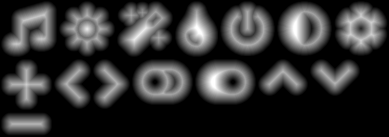
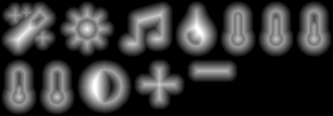
replace color sliders with temperature

diff --git a/main.cpp b/main.cpp
@@ -28,9 +28,7 @@ namespace appui {
         std::atomic<double> brightnessV;
         std::atomic<double> brightnessA;
         std::atomic<double> gamma;
-        std::atomic<double> dr;
-        std::atomic<double> dg;
-        std::atomic<double> db;
+        std::atomic<double> temperature;
         uint32_t color;
     };
 
@@ -221,7 +219,7 @@ namespace appui {
         bool enabled = true;
     };
 
-    enum setting { Y, R, G, B, Lv, La };
+    enum setting { Y, T, Lv, La };
 
     struct tooltip_config : ui::grid {
         tooltip_config(const state& init)
@@ -253,18 +251,12 @@ namespace appui {
             baSlider.onChange.addForever([this](double v) { return onChange(La, v); });
 
             gammaGrid.set({&yLabel.pad, &ySlider.pad,
-                           &rLabel.pad, &rSlider.pad,
-                           &gLabel.pad, &gSlider.pad,
-                           &bLabel.pad, &bSlider.pad});
+                           &tLabel.pad, &tSlider.pad});
             gammaGrid.setColStretch(1, 1);
-            ySlider.setValue((init.gamma - 1) / 2); // use gamma from 1 to 3
-            rSlider.setValue(init.dr);
-            gSlider.setValue(init.dg);
-            bSlider.setValue(init.db);
+            ySlider.setValue((init.gamma - 1) / 2); // gamma <- [1..3]
+            tSlider.setValue(pow((init.temperature - 1000) / 19000, 0.5673756656029532)); // temperature <- [1000..20000]
             ySlider.onChange.addForever([&](double value) { return onChange(Y, value * 2 + 1); });
-            rSlider.onChange.addForever([&](double value) { return onChange(R, value); });
-            gSlider.onChange.addForever([&](double value) { return onChange(G, value); });
-            bSlider.onChange.addForever([&](double value) { return onChange(B, value); });
+            tSlider.onChange.addForever([&](double value) { return onChange(T, pow(value, 1.7625006862733437) * 19000 + 1000); });
 
             colorGrid.set({&hueSlider.pad, &satSlider.pad});
             colorGrid.setColStretch(0, 1);
@@ -300,15 +292,11 @@ namespace appui {
         padded<texslider<2>> bvSlider{{10, 10, 10, 10}};
         padded<texslider<2>> baSlider{{10, 10, 10, 10}};
 
-        padded<ui::grid> gammaGrid{{10, 10, 10, 10}, 2, 4};
+        padded<ui::grid> gammaGrid{{10, 10, 10, 10}, 2, 2};
         padded_label yLabel{{10, 10, 10, 10}, {L"\uf042", ui::font::loadPermanently<IDI_FONT_ICONS>(), 22}};
-        padded_label rLabel{{10, 10, 10, 10}, {L"\uf185", ui::font::loadPermanently<IDI_FONT_ICONS>(), 22, 0xFFFF3333u}};
-        padded_label gLabel{{10, 10, 10, 10}, {L"\uf185", ui::font::loadPermanently<IDI_FONT_ICONS>(), 22, 0xFF33FF33u}};
-        padded_label bLabel{{10, 10, 10, 10}, {L"\uf185", ui::font::loadPermanently<IDI_FONT_ICONS>(), 22, 0xFF3333FFu}};
+        padded_label tLabel{{10, 10, 10, 10}, {L"\uf2c9", ui::font::loadPermanently<IDI_FONT_ICONS>(), 22}};
         padded<ui::slider> ySlider{{10, 10, 10, 10}};
-        padded<ui::slider> rSlider{{10, 10, 10, 10}};
-        padded<ui::slider> gSlider{{10, 10, 10, 10}};
-        padded<ui::slider> bSlider{{10, 10, 10, 10}};
+        padded<texslider<3>> tSlider{{10, 10, 10, 10}};
         gray_bg gammaTab{gammaGrid.pad};
 
         padded<ui::grid> colorGrid{{10, 10, 10, 10}, 1, 2};
@@ -320,7 +308,7 @@ namespace appui {
 
 int ui::main() {
     bool initialized = false;
-    appui::state defaultConfig = {16, 9, 20, 3, 0.7, 0.4, 2.0, 1.0, 1.0, 1.0, 0x00FFFFFFu};
+    appui::state defaultConfig = {16, 9, 20, 3, 0.7, 0.4, 2.0, 6600.0, 0x00FFFFFFu};
     appui::state config;
 
     wchar_t configPath[MAX_PATH];
@@ -480,16 +468,16 @@ int ui::main() {
                 for (uint8_t strip = 0; strip < 4; strip++) {
                     comm.update(strip, frameData[strip], [
                         brightness = strip < 2 ? config.brightnessV.load() : config.brightnessA.load(),
-                        gamma = config.gamma.load(), dr = config.dr.load(), dg = config.dg.load(), db = config.db.load()
+                        gamma = config.gamma.load(), ts = k2argb(config.temperature)
                     ](uint32_t color) {
                         auto [a, r, g, b] = u2qd(color);
                         // Naively applying round((x * brightness / 255) ^ gamma * 255) for each component
                         // can multiply relative differences due to rounding errors, e.g. 16, 17, 16 (barely
                         // greenish dark gray) at gamma 2.0 and brightness = 70% will become 0, 1, 0 (obvious
                         // dark green). To avoid this, round the differences instead.
-                        g = pow(g * brightness, gamma + dg - 1) * dg;
-                        r = pow(r * brightness, gamma + dr - 1) * dr - g;
-                        b = pow(b * brightness, gamma + db - 1) * db - g;
+                        g = pow(g * brightness * ts._3, gamma);
+                        r = pow(r * brightness * ts._2, gamma) - g;
+                        b = pow(b * brightness * ts._4, gamma) - g;
                         return LED(round(r * 255) + round(g * 255), round(g * 255), round(b * 255) + round(g * 255));
                     });
                 }
@@ -584,9 +572,7 @@ int ui::main() {
     tooltipConfig.onChange.addForever([&](appui::setting s, double v) {
         switch (s) {
             case appui::Y: config.gamma = v; break;
-            case appui::R: config.dr = v; break;
-            case appui::G: config.dg = v; break;
-            case appui::B: config.db = v; break;
+            case appui::T: config.temperature = v; break;
             case appui::Lv: config.brightnessV = v; break;
             case appui::La: config.brightnessA = v; break;
         }

diff --git a/color.hpp b/color.hpp
@@ -48,3 +48,12 @@ static DOUBLEX4 ahsv2argb(DOUBLEX4 x) {
          : i == 4 ? DOUBLEX4{a, q, m, v}
          : /* 6 */  DOUBLEX4{a, v, m, p};
 }
+
+static DOUBLEX4 k2argb(double t) {
+    t /= 100; // http://www.tannerhelland.com/4435/convert-temperature-rgb-algorithm-code/
+    auto r = std::max(0., std::min(1., t < 66 ? 1. : 1.292936186062745 * pow(t - 60, -0.1332047592)));
+    auto g = std::max(0., std::min(1., t < 66 ? 0.3900815787690196 * log(t) - 0.6318414437886275
+                                              : 1.129890860895294 * pow(t - 60, -0.0755148492)));
+    auto b = std::max(0., std::min(1., t > 66 ? 1. : t < 19 ? 0. : 0.543206789110196 * log(t - 10) - 1.19625408914));
+    return {1, r, g, b};
+}
